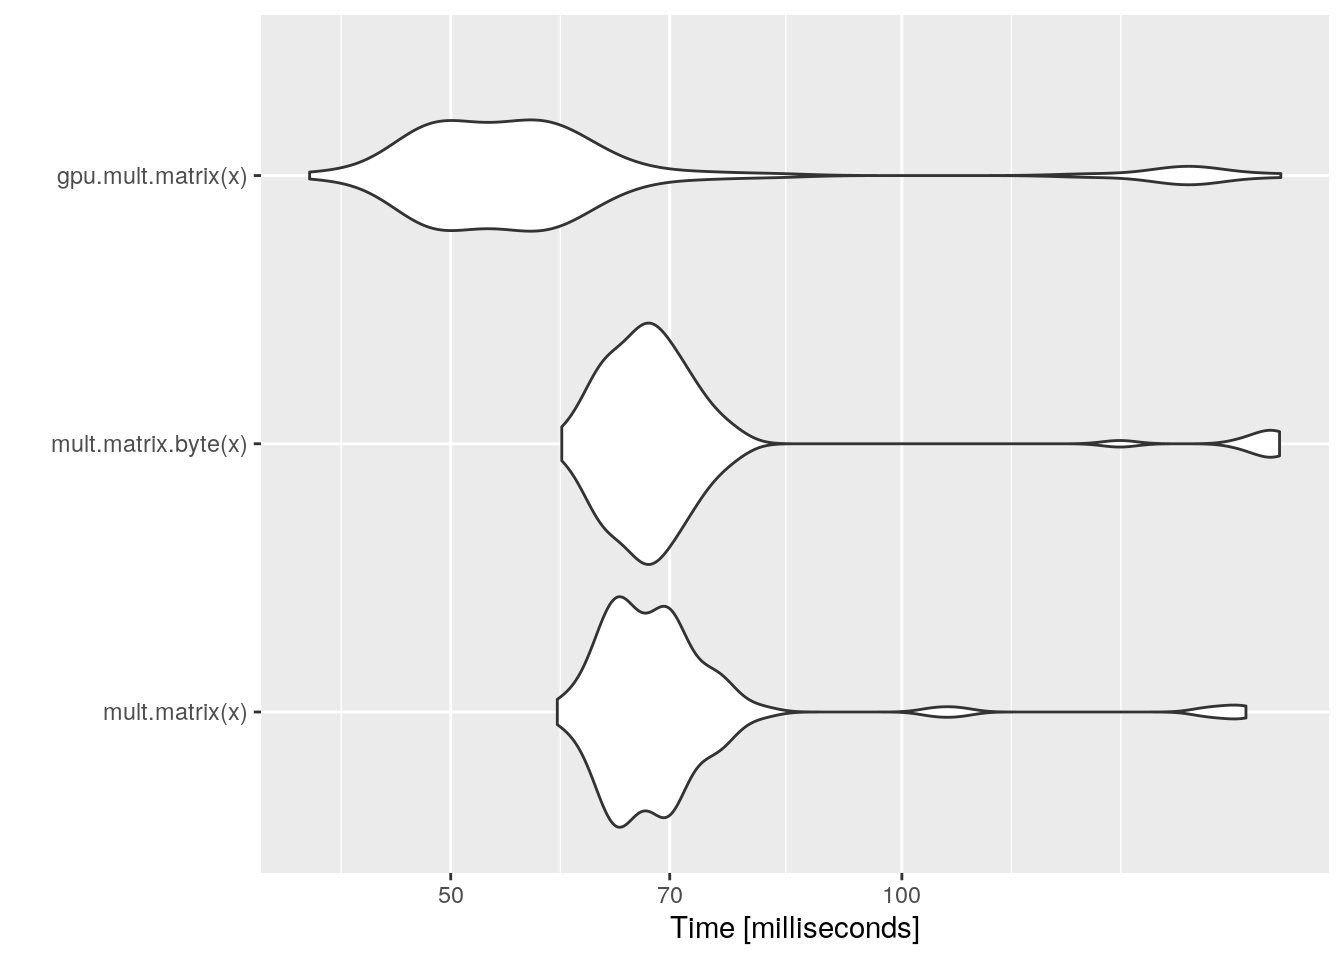
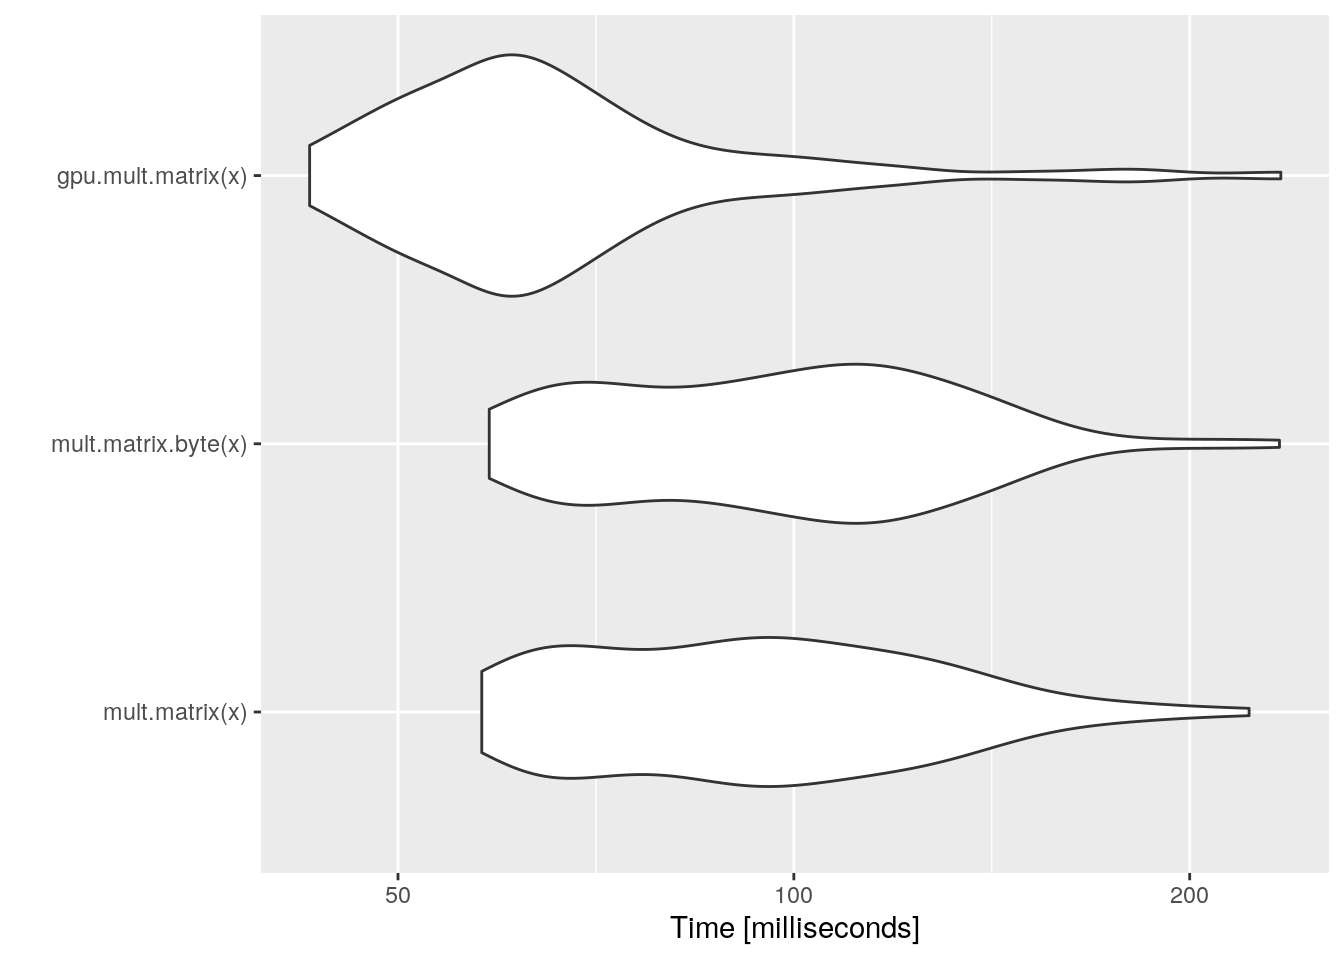
update-site-txt

diff --git a/post/comparison-of-time-efficiency-of-a-same-function-in-r/index.html b/post/comparison-of-time-efficiency-of-a-same-function-in-r/index.html
@@ -13,7 +13,7 @@
 <base href="https://jodavid.github.io">
 
 <title>
-  Jodavid Ferreira - Comparação da eficiência de tempo de uma mesma função no R 
+  Jodavid Ferreira - comparação da eficiência de tempo de uma mesma função no R 
 </title>
 
 <meta name="generator" content="Hugo 0.54.0" />
@@ -50,7 +50,7 @@ src="//cdn.bootcss.com/mathjax/2.7.1/MathJax.js?config=TeX-MML-AM_CHTML">
 
 
 <header class="row text-left title">
-  <h1 class="title">Comparação da eficiência de tempo de uma mesma função no R</h1>
+  <h1 class="title">comparação da eficiência de tempo de uma mesma função no R</h1>
 </header>
 <section id="category-pane" class="row meta">
   
@@ -81,10 +81,10 @@ src="//cdn.bootcss.com/mathjax/2.7.1/MathJax.js?config=TeX-MML-AM_CHTML">
     
 
 
-<p>Atualmente considerando tantas tarefas diárias que temos que fazer,
-está cada vez mais difícil gerenciar nosso <em>tempo</em>. E com os métodos de análises
-de dados esse processo também é uma parte fundamental, pois nos influência
-diretamente no <em>tempo</em> de finalização da análise. Quanto mais as ferramentas utilzadas demoram em sua execução, mais <em>tempo</em> será necessário para conclusão do estudo.</p>
+<p>Atualmente, com tantas tarefas diárias que temos que realizar,
+torna-se cada vez mais difícil o gerenciamento de nosso <em>tempo</em>.
+E o <em>tempo</em> é uma palavra fundamental com quem trabalha com métodos de análises
+de dados no qual o período de processamento do método é uma parte fundamental, pois influência diretamente no <em>tempo</em> de finalização da análise. Quanto mais as ferramentas utilizadas demoram em sua execução, mais <em>tempo</em> será necessário para conclusão do estudo.</p>
 <p>Levando isso em consideração, neste post serão verificados <em>tempos de execução</em>
 de funções programadas de três formas diferentes para execução da mesma tafera.
 Foi utilizado funções para
@@ -161,10 +161,10 @@ result &lt;- microbenchmark(
 )</code></pre>
 <pre class="r"><code>print(result)
 ## Unit: milliseconds
-##                 expr      min       lq     mean   median       uq      max
-##       mult.matrix(x) 58.89628 64.39457 71.56416 67.84524 70.79639 169.6612
-##  mult.matrix.byte(x) 59.30220 64.33242 73.77097 67.80033 71.14162 178.6466
-##   gpu.mult.matrix(x) 40.25536 49.24454 62.65912 55.57398 60.31164 178.9974
+##                 expr      min       lq      mean   median       uq      max
+##       mult.matrix(x) 57.89933 71.13624  97.46698 91.91690 117.9549 221.9328
+##  mult.matrix.byte(x) 58.66301 74.08318 101.51403 99.34597 119.3572 234.0451
+##   gpu.mult.matrix(x) 42.83199 53.05076  69.57842 61.80810  72.2088 234.6081
 ##  neval
 ##    100
 ##    100
@@ -184,6 +184,12 @@ mais rapidamente.</p>
 <!--[Li, Changcheng. "JuliaCall: an R package for seamless integration between R and Julia."](https://www.theoj.org/joss-papers/joss.01284/10.21105.joss.01284.pdf)
 -->
 <p><a href="http://adv-r.had.co.nz/">Wickham, Hadley. Advanced r. Chapman and Hall/CRC, 2014.</a></p>
+<p><br/>
+<br/>
+<br/></p>
+<div id="post-gerado-com-framework-hugo-httpgohugo.io-r-markdown-httprmarkdown.rstudio.com-no-qual-os-resultados-são-gerados-na-geração-da-página." class="section level4">
+<h4>“Post gerado com framework HUGO (<a href="http://gohugo.io/">http://gohugo.io/</a>), R Markdown (<a href="http://rmarkdown.rstudio.com/">http://rmarkdown.rstudio.com/</a>), no qual os resultados são gerados na geração da página.”</h4>
+</div>
 
   </div>
 </section>

diff --git a/post/k-nn-classification-in-r-and-julia/index.html b/post/k-nn-classification-in-r-and-julia/index.html
@@ -543,25 +543,31 @@ class_accuracy = mean(predict_k3[:,1] .== class_test)</code></pre>
 <pre><code>## 0.97</code></pre>
 <pre class="python"><code># Acuária de classificação no Python
 print(confusion_matrix(y_test, y_pred))</code></pre>
-<pre><code>## [[34  0  0]
-##  [ 0 34  1]
-##  [ 0  1 29]]</code></pre>
+<pre><code>## [[33  0  0]
+##  [ 0 32  5]
+##  [ 0  2 27]]</code></pre>
 <pre class="python"><code>print(classification_report(y_test, y_pred))</code></pre>
 <pre><code>##                  precision    recall  f1-score   support
 ## 
-##     Iris-setosa       1.00      1.00      1.00        34
-## Iris-versicolor       0.97      0.97      0.97        35
-##  Iris-virginica       0.97      0.97      0.97        30
+##     Iris-setosa       1.00      1.00      1.00        33
+## Iris-versicolor       0.94      0.86      0.90        37
+##  Iris-virginica       0.84      0.93      0.89        29
 ## 
-##       micro avg       0.98      0.98      0.98        99
-##       macro avg       0.98      0.98      0.98        99
-##    weighted avg       0.98      0.98      0.98        99</code></pre>
+##       micro avg       0.93      0.93      0.93        99
+##       macro avg       0.93      0.93      0.93        99
+##    weighted avg       0.93      0.93      0.93        99</code></pre>
 <p>O experimento foi realizado usando uma amostra de treinamento com 50 observações e uma amostra de teste com 100 observações.</p>
 <p>No <code>R</code>, o algoritmo <span class="math inline">\(k\)</span>-NN está na biblioteca <code>class</code>, em <code>Julia</code> foi necessário escrever o código <span class="math inline">\(k\)</span>-NN, visto que não foi encontrado por mim nenhuma biblioteca com o método.
 No <code>Python</code> também já existem bibliotecas disponíveis, com funções pré-compiladas.</p>
 <p>Como era de se esperar, os resultados foram semelhantes, a difenrença foi ocorrida devido a amostra de treinamento selecionada aleatóriamente.
 Entretanto a ideia aqui é mostrar como executar o mesmo método em trễs diferentes linguagens
 de programação, <code>R</code>,<code>Julia</code> e <code>python</code>.</p>
+<p><br/>
+<br/>
+<br/></p>
+</div>
+<div id="post-gerado-com-framework-hugo-httpgohugo.io-r-markdown-httprmarkdown.rstudio.com-no-qual-os-resultados-são-gerados-na-geração-da-página." class="section level4">
+<h4>“Post gerado com framework HUGO (<a href="http://gohugo.io/">http://gohugo.io/</a>), R Markdown (<a href="http://rmarkdown.rstudio.com/">http://rmarkdown.rstudio.com/</a>), no qual os resultados são gerados na geração da página.”</h4>
 </div>
 
   </div>

diff --git a/categories/r/index.html b/categories/r/index.html
@@ -106,7 +106,7 @@ src="//cdn.bootcss.com/mathjax/2.7.1/MathJax.js?config=TeX-MML-AM_CHTML">
     </li>
     
     <li class="list-entry">
-      <a class="list-entry-link" href="https://jodavid.github.io/post/comparison-of-time-efficiency-of-a-same-function-in-r/">Comparação da eficiência de tempo de uma mesma função no R</a>
+      <a class="list-entry-link" href="https://jodavid.github.io/post/comparison-of-time-efficiency-of-a-same-function-in-r/">comparação da eficiência de tempo de uma mesma função no R</a>
       <p class="meta">
          2 DE JAN DE 2021 
         <span class="category">

diff --git a/post/index.html b/post/index.html
@@ -106,7 +106,7 @@ src="//cdn.bootcss.com/mathjax/2.7.1/MathJax.js?config=TeX-MML-AM_CHTML">
     </li>
     
     <li class="list-entry">
-      <a class="list-entry-link" href="https://jodavid.github.io/post/comparison-of-time-efficiency-of-a-same-function-in-r/">Comparação da eficiência de tempo de uma mesma função no R</a>
+      <a class="list-entry-link" href="https://jodavid.github.io/post/comparison-of-time-efficiency-of-a-same-function-in-r/">comparação da eficiência de tempo de uma mesma função no R</a>
       <p class="meta">
          2 DE JAN DE 2021 
         <span class="category">

diff --git a/tags/r/index.html b/tags/r/index.html
@@ -106,7 +106,7 @@ src="//cdn.bootcss.com/mathjax/2.7.1/MathJax.js?config=TeX-MML-AM_CHTML">
     </li>
     
     <li class="list-entry">
-      <a class="list-entry-link" href="https://jodavid.github.io/post/comparison-of-time-efficiency-of-a-same-function-in-r/">Comparação da eficiência de tempo de uma mesma função no R</a>
+      <a class="list-entry-link" href="https://jodavid.github.io/post/comparison-of-time-efficiency-of-a-same-function-in-r/">comparação da eficiência de tempo de uma mesma função no R</a>
       <p class="meta">
          2 DE JAN DE 2021 
         <span class="category">

diff --git a/categories/cuda/index.html b/categories/cuda/index.html
@@ -54,7 +54,7 @@ src="//cdn.bootcss.com/mathjax/2.7.1/MathJax.js?config=TeX-MML-AM_CHTML">
   <ul >
     
     <li class="list-entry">
-      <a class="list-entry-link" href="https://jodavid.github.io/post/comparison-of-time-efficiency-of-a-same-function-in-r/">Comparação da eficiência de tempo de uma mesma função no R</a>
+      <a class="list-entry-link" href="https://jodavid.github.io/post/comparison-of-time-efficiency-of-a-same-function-in-r/">comparação da eficiência de tempo de uma mesma função no R</a>
       <p class="meta">
          2 DE JAN DE 2021 
         <span class="category">

diff --git a/tags/byte-code-compilation/index.html b/tags/byte-code-compilation/index.html
@@ -54,7 +54,7 @@ src="//cdn.bootcss.com/mathjax/2.7.1/MathJax.js?config=TeX-MML-AM_CHTML">
   <ul >
     
     <li class="list-entry">
-      <a class="list-entry-link" href="https://jodavid.github.io/post/comparison-of-time-efficiency-of-a-same-function-in-r/">Comparação da eficiência de tempo de uma mesma função no R</a>
+      <a class="list-entry-link" href="https://jodavid.github.io/post/comparison-of-time-efficiency-of-a-same-function-in-r/">comparação da eficiência de tempo de uma mesma função no R</a>
       <p class="meta">
          2 DE JAN DE 2021 
         <span class="category">

diff --git a/tags/cuda/index.html b/tags/cuda/index.html
@@ -54,7 +54,7 @@ src="//cdn.bootcss.com/mathjax/2.7.1/MathJax.js?config=TeX-MML-AM_CHTML">
   <ul >
     
     <li class="list-entry">
-      <a class="list-entry-link" href="https://jodavid.github.io/post/comparison-of-time-efficiency-of-a-same-function-in-r/">Comparação da eficiência de tempo de uma mesma função no R</a>
+      <a class="list-entry-link" href="https://jodavid.github.io/post/comparison-of-time-efficiency-of-a-same-function-in-r/">comparação da eficiência de tempo de uma mesma função no R</a>
       <p class="meta">
          2 DE JAN DE 2021 
         <span class="category">

diff --git a/tags/gpu/index.html b/tags/gpu/index.html
@@ -54,7 +54,7 @@ src="//cdn.bootcss.com/mathjax/2.7.1/MathJax.js?config=TeX-MML-AM_CHTML">
   <ul >
     
     <li class="list-entry">
-      <a class="list-entry-link" href="https://jodavid.github.io/post/comparison-of-time-efficiency-of-a-same-function-in-r/">Comparação da eficiência de tempo de uma mesma função no R</a>
+      <a class="list-entry-link" href="https://jodavid.github.io/post/comparison-of-time-efficiency-of-a-same-function-in-r/">comparação da eficiência de tempo de uma mesma função no R</a>
       <p class="meta">
          2 DE JAN DE 2021 
         <span class="category">
